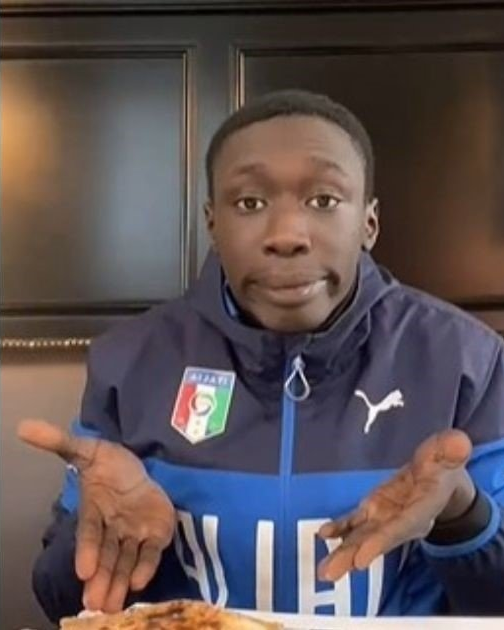
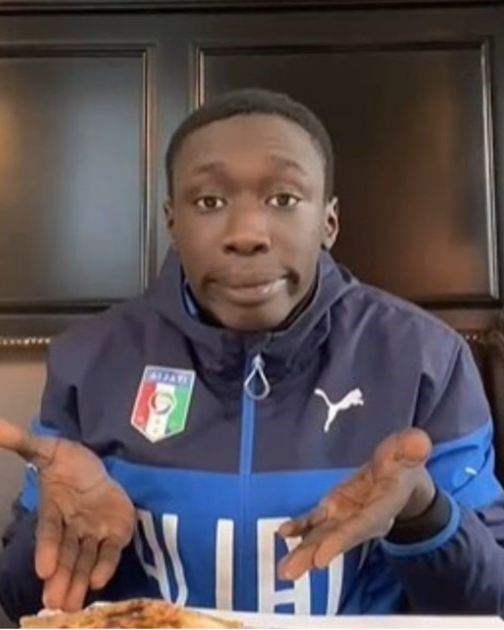
Updated Pastenser page

diff --git a/src/pages/projects/pasttenser/index.tsx b/src/pages/projects/pasttenser/index.tsx
@@ -1,20 +1,56 @@
-import React from 'react'
+import { StaticImage } from 'gatsby-plugin-image'
+import React, { useState } from 'react'
 import { Block } from '../../../components/block'
 import Button from '../../../components/button'
 import Input from '../../../components/input'
+import './index.scss'
+
+function capitalizeFirstLetter(string: string) {
+  return string.charAt(0).toUpperCase() + string.slice(1);
+}
+
+const errorMap = {
+  spaces: 'Do verbs have spaces? 🤨 You are sus.',
+  long: 'Is there a verb that really goes like - "{{verb}}"? 🙅',
+  other: 'Buddy, could you please try entering a verb? 🙏'
+}
 
 function PastTenser() {
+  const [result, setResult] = useState(null)
+  const [verb, setVerb] = useState('')
+  let error: any = null
+  if(verb.match(/[^A-Za-z]/g)) error = errorMap.other
+  if(verb.match(/\s/g)) error = errorMap.spaces
+  if(verb.length > 20) error = errorMap.long.replace('{{verb}}', verb)
+
+  const fetchData = () => !error && fetch('https://pastenser.herokuapp.com/' + capitalizeFirstLetter(verb)).then(res => res.json()).then(val => setResult(val['past tense']))
+  
   return (
-    <Block display='flex'>
-        <Block flex='1 1 70%'>
+    <div>
+      <Block display='flex'  alignItems='center' className='khabyl-project'>
+        <Block flex='1 1 70%' style={{position: 'relative'}}>
         <h1>PastTenser</h1>
         <h2>A quick API that gives you the past tense of the requested verb.</h2>
-        <Block display='flex' spacing={[0, 24]} className='input-block'><Input placeholder="Enter a verb"/><Button>Find</Button></Block>
+        <Block display='flex' spacing={[0, 24]} className='input-block'><Input maxlength="30" placeholder="Enter a verb" value={verb} onKeyPress={(e: any) => e.charCode === 13 && fetchData()} onChange={({target}: any) => {
+          setVerb(target.value)
+          setResult(null)
+        }}/><Button onClick={fetchData} disabled={!!error}>Find</Button></Block>
+        <div className="error-text">{error}</div>
         </Block>
-        <Block flex='1 0 30%'>
-            
+        <Block flex='1 0 30%' className={`khaby ${result? 'show': ''}`}>
+            <StaticImage src='../../../images/projects/khaby-lame 1.png' alt="Khaby Lame" class="open" />
+            <StaticImage src='../../../images/projects/khaby-lame 2.png' alt="Khaby Lame" class="close"/>
+            <div className={`result ${result ? ``: 'hide'}`}>{result}</div>
         </Block>
     </Block>
+    <div className="khaby-section">
+      <h3>How does it work?</h3>
+      <p>It's very simple. In fact, it is a normal Javascript map lookup. The backend for this is written in NodeJS with ExpressJS and hosted on Heroku.
+        It's an API that I developed just for fun so you can use it for fun.<br /><span className='text-caption'>Additional fact: This API also returns the past-participle form of the verb.</span></p>
+      <p>As you know, the image I used here is <b>Khaby Lame.</b> He is just awesome for his quirky parody videos. 
+        I find his facial expressions funny and useful in a page like this.</p>
+    </div>
+    </div>
   )
 }
 

diff --git a/src/pages/projects/pasttenser/index.scss b/src/pages/projects/pasttenser/index.scss
@@ -1,0 +1,77 @@
+.khaby-section {
+    margin-top: 60px;
+    max-width: 600px;
+}
+.khaby {
+    position: relative;
+    .gatsby-image-wrapper {
+        border-radius: 4px;
+        transition: opacity 0.2s ease;
+        clip-path: polygon(9% 0, 100% 0%, 88% 100%, 0% 100%);
+    }
+    .open {
+        position: absolute;
+        top: 0;
+        left: 0;
+    }
+    &.show {
+        .close {
+            opacity: 0;
+        }
+    }
+    .result {
+        font-size: var(--h2);
+        background-color: var(--element1);
+        color: var(--surface1);
+        font-weight: bold;
+        transform: rotate(-5deg) skewX(-10deg) translateX(-50%);
+        position: relative;
+        text-align: center;
+        border: 10px solid var(--primary-color);
+        max-width: 500px;
+        position: absolute;
+        bottom: -70px;
+        left: 40%;
+        min-width: 200px;
+        padding: 0px 8px;
+        &.hide {
+            display: none;
+        }
+    }
+}
+
+.error-text {
+    position: absolute;
+    padding-top: 12px;
+    color: var(--danger);
+    font-size: var(--h6);
+}
+
+@keyframes bounce {
+    0% { transform: scale(1.1); opacity: 1 }
+    50% { transform: scale(1.6); opacity: .7; }
+    60% { transform: scale(0.6); opacity: 1 }
+    80% { transform: scale(0.95) }
+    100% { transform: scale(0.85) }
+  }
+
+@media screen and (max-width: 768px) {
+    .khabyl-project {
+        flex-wrap: wrap-reverse;
+        .khaby {
+            position: relative;
+            flex: 0 0 70% !important;
+            margin: auto;
+            margin-bottom: 50px;
+            .result {
+                max-width: 400px;
+                bottom: -30px;
+                left: 40%;
+                min-width: 200px;
+            }
+        }
+    }
+    .error-text {
+        position: static;
+    }
+}

diff --git a/src/pages/index.tsx b/src/pages/index.tsx
@@ -63,13 +63,13 @@ function IndexPage({ data }: any) {
             
           </div>
           </Link>
-          <a href="https://samuellawrentz.github.io/PastTenser/" target="_blank">
+          <Link to="/projects/pasttenser">
           <div className="card card__details"> 
             <div className="card__title text-title2"><h3>PastTenser</h3></div>
             <div className="card__description">An API that can give you the pastense of any verb that is provided.</div>
             <div className="text-caption technologies">ExpressJS, KnockoutJS, jQuery, NodeJs, CSS3, HTML5</div>
           </div>
-          </a>
+          </Link>
           <a href="https://samuellawrentz.github.io/highcharts-networkChart/" target="_blank">
           <div className="card card__details">
             <div className="card__title text-title2"><h3>Network chart</h3></div>

diff --git a/src/components/button/index.tsx b/src/components/button/index.tsx
@@ -5,11 +5,13 @@ interface Prop {
     children: ReactNode,
     type?: string,
     size?: string,
+    disabled?: boolean,
+    onClick: any,
 }
 
-function Button({type = "primary", size="regular", children} : Prop) {
+function Button({type = "primary", size="regular", children, disabled, ...props} : Prop) {
   return (
-    <span className={['button', `button-${type}`, `button-${size}`].join(' ')}>{children}</span>
+    <span className={['button', `button-${type}`, `button-${size}`, `button-${disabled ? 'disabled': ''}`].join(' ')} {...props}>{children}</span>
   )
 }
 

diff --git a/src/components/button/index.scss b/src/components/button/index.scss
@@ -3,7 +3,13 @@
     border-radius: 8px;
     background-color: var(--primary-color);
     color: var(--element1);
+    display: inline-flex;
+    align-items: center;
     cursor: pointer;
+    &-disabled {
+        opacity: 0.5;
+        pointer-events: none;
+    }
     &-secondary {
         border: 1px solid var(--element1);
         color: var(--element1);

diff --git a/src/variables.scss b/src/variables.scss
@@ -38,4 +38,5 @@
     --text-shadow-color1: hsl(349, 38%, 14%);
     --secondary-color: hsl(169deg 52% 43%);
     --tertiary: hsl(55, 67%, 80%);
+    --danger: hsl(10, 100%, 65%);
   }

diff --git a/src/typography.scss b/src/typography.scss
@@ -16,5 +16,6 @@
     .text-caption {
         font-size: var(--caption);
         font-weight: 100;
+        letter-spacing: 0.5px;
     }
   
